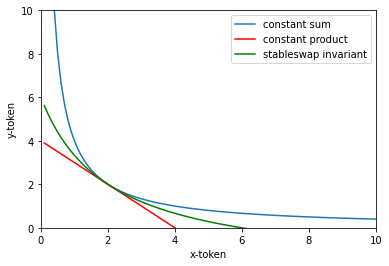
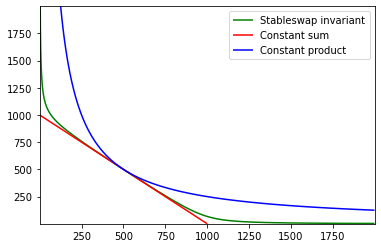
Implement feedback of @tbDeveloper
-Updated the stableswap graphic
-Changed cfmm graphic
-Various other smaller changes
-to do: Arbitrage graphic

Changed region(s): [[0.0, 0.0, 1.0, 0.9879], [0.2887, 0.6492, 0.3176, 0.6774], [0.2598, 0.6774, 0.2887, 0.7056]]

diff --git a/slides/dex-protocols.tex b/slides/dex-protocols.tex
@@ -22,32 +22,37 @@
 
 
 %%%
-\begin{frame}{Exchange Overview}
-
+\begin{frame}{Overview}
 	\begin{figure}[h!]
 		\input{../assets/figures/overview_exchanges.tex}
 	\end{figure}
-	
-\only<2>{
-\textbf{Problems of CEXs:}
-\begin{small}
-\begin{itemize}
-	\item A users' funds must be deposited with the exchange
-	\item Access is forfeited and trust towards the exchange operator needed.
-	\item Singe point of attack $\rightarrow$ Constant threat of becoming target of malicious third parties.
-\end{itemize}
-\end{small}
-}	
+\end{frame}	
+%%%
 
-\only<3>{
-\textbf{Advantages of DEXs:}
-\begin{small}
-\begin{itemize}
-	\item User remains in exclusive control of assets until trade is executed.
-	\item Atomic trade execution = One indivisible transaction.
-	\item No counterparty risk.
-\end{itemize}
-\end{small}
+
+%%	
+\begin{frame}{Why DEXs?}
+
+	\textbf{Problems of CEXs:}
+		\begin{small}
+		\begin{itemize}
+			\item A users' funds must be deposited with the exchange
+			\item Access is forfeited and trust towards the exchange operator needed.
+			\item Singe point of attack $\rightarrow$ Constant threat of becoming target of malicious third parties.
+		\end{itemize}
+		\end{small}	
+
+\vspace{1.5em}
+
+\uncover<2>{
+	\textbf{Advantages of DEXs:}
+		\begin{small}
+		\begin{itemize}
+			\item User remains in exclusive control of assets until trade is executed.
+			\item Atomic trade execution = One indivisible transaction.
+			\item No counterparty risk.
+		\end{itemize}
+		\end{small}
 }
 \end{frame}
 %%%
@@ -72,16 +77,23 @@
 	\begin{itemize}
 		\item The price is determined endogenously via a formula.
 		\item The trader pays a fee which is added to the liquidity pool. Since no new Pool tokens are minted, this has the effect of splitting the transaction fee proportionally between all Liquidity Providers.
-		%\item When the pool price differs from the market price (e.g on a centralized exchange), there is an arbitrage opportunity. %This keeps the price up to date (in line with Market Price).
 	\end{itemize}
 }
 
-\only<5>{
+\end{frame}
+%%%
+
+
+%%%
+\begin{frame}{Arbitrage}
+	\begin{figure}
+		\begin{tikzpicture}
+		
+		\end{tikzpicture}
+	\end{figure}
 	\begin{itemize}
-		\item When the pool price differs from the market price (e.g on a centralized exchange), there is an arbitrage opportunity. This should keep the price in line with the Market Price.
-	\end{itemize}
-}
-
+		\item When the pool price differs from the market price (e.g on a centralized exchange), there is an arbitrage opportunity. Therefore, the Pool Price should be the same as the Market Price.
+	\end{itemize}	
 \end{frame}
 %%%
 
@@ -118,6 +130,7 @@
 \end{frame}
 %%%
 
+
 %%%
 \begin{frame}{AMM Functions}
 	\begin{itemize}
@@ -127,6 +140,7 @@
 	\end{itemize}
 \end{frame}
 %%%
+
 
 %%%
 \begin{frame}{Swap (without fees)}
@@ -169,52 +183,53 @@
 
 %%%
 \begin{frame}{Divergence Loss}
-		\textbf{General assumptions:} No fees, no other LPs \\ 
-		
+
+	\textbf{General assumptions:} No fees, no other LPs \\ 
 		\begin{enumerate}
 			\item We provide 10 units both of ETH and CIF, which are equal in value ($1 \tfrac{CIF}{ETH}$).
 			\begin{align*}
-			10 \cdot 10 = 100	
+				10 \cdot 10 = 100	
 			\end{align*}
-			\item The price for ETH on the open market doubles, the price of CIF stays the same ($2 \tfrac{CIF}{ETH}$). This opens up an arbitrage opportunity in the pool. After arbitrage, prices should correspond  to the market prices and with the following pool balances.
+			\item The price for ETH on the open market doubles, the price of CIF stays the same ($2 \tfrac{CIF}{ETH}$). After arbitrage, the pool balances should adjust to:
 			\begin{align*}
-			y &= \sqrt{k/P_{y}}	 = \sqrt{100/2} = 7.0716 \\
-			x &= k / y = 100 / 7.0716 = 14.141
+				y &= \sqrt{k/P_{y}}	 = \sqrt{100/2} = 7.0716 \\
+				x &= k / y = 100 / 7.0716 = 14.141
 			\end{align*}
-		\end{enumerate}
-		
+		\end{enumerate}	
 \end{frame}
 %%%
 
+
 %%%
 \begin{frame}{Divergence Loss}
+
 	\begin{enumerate}
 	\setcounter{enumi}{2}
-		\item The total pool value in CIF is: 
+		\item The total pool value, expressed in units of Token A is: 
 			\begin{align*}
-				7.0716 \cdot 2 \tfrac{CIF}{ETH} + 14.141 \cdot 1 \tfrac{CIF}{ETH} = 28.284 \tfrac{CIF}{ETH}
+				7.0716 \cdot 2 \tfrac{CIF}{ETH} + 14.141 \cdot 1 \tfrac{CIF}{ETH} = 28.284 CIF
 			\end{align*}
 		\item If we simply held our initial allocation, we would have:
 			\begin{align*}
-			10 \cdot 2 \tfrac{CIF}{ETH} + 10 \cdot 1 \tfrac{CIF}{ETH} = 	30 \tfrac{CIF}{ETH}
+			10 \cdot 2 \tfrac{CIF}{ETH} + 10 \cdot 1 \tfrac{CIF}{ETH} = 	30 CIF
 			\end{align*}
 		\item The difference between the Pool Value and the Hold Value is called divergence loss.
 		\begin{align*}
 			DL = \tfrac{Pool_V}{Hold_V} -1 = \tfrac{28.284}{30} - 1 = -5.72 \%
 			\end{align*}
 	\end{enumerate}	
-\begin{keytakeaway}{Note}
-	In order to be profitable, a LP must collect more fees than the Divergence Loss. DL is only realized by selling the LP position (burning LP Tokens). There is no DL if the price ratio between the two pool assets stays equal.
-\end{keytakeaway}
-
+	
+	\begin{keytakeaway}{Note}
+		In order to be profitable, a LP must collect more fees than the Divergence Loss. DL is only realized by selling the LP position (burning LP Tokens). There is no DL if the price ratio between the two pool assets stays equal.
+	\end{keytakeaway}
+	
 \end{frame}
 %%%
 
 
 %%%
 \begin{frame}{Swap one x-token with 0.03\% fee}
-
-%\textbf{Swap one x-token with a fee of 0.3 \%} \\ \vspace{1.5em}
+	%\textbf{Swap one x-token with a fee of 0.3 \%} \\ \vspace{1.5em}
 
 	\begin{minipage}{0.5\textwidth}
 		\begin{figure}[h!]
@@ -229,7 +244,7 @@
 		\begin{scriptsize}
 			\begin{align*}
 			\only<1>{
-				\Delta (y) &= \dfrac{k}{x+ (1-\tau) \Delta (x)} - y \\
+				\Delta y &= \dfrac{k}{x+ (1-\tau) \Delta x} - y \\
 			}
 			\only<2>{
 			 	\Delta y &= \tfrac{100}{10+ (1-0.003) \cdot 10} - 10 = -0.9066 \\
@@ -241,9 +256,9 @@
 		 		k' &= 11 \cdot 9.0934 = 100.0274 \\
 			}
 			\only<4>{
-				PR &= \tfrac{y}{x} = 10/10 = 1 \\
-				Swap Price &= \tfrac{\Delta y}{\Delta x} = \tfrac{0.9066}{1} = 0.9066\\
-				PR' &= \tfrac{y'}{x'} = \tfrac{9.0934}{11} =  0.8267 \\
+				P &= \tfrac{y}{x} = \tfrac{10}{10} = 1 \\
+				P_{swap} &= \tfrac{\Delta y}{\Delta x} = \tfrac{0.9066}{1} = 0.9066\\
+				P' &= \tfrac{y'}{x'} = \tfrac{9.0934}{11} =  0.8267 \\
 			}
 			\only<5>{
 				S &= \tfrac{Swap Price}{PR} - 1 = \tfrac{0.9066}{1} - 1 = -0.0934 \\
@@ -273,19 +288,19 @@
 		\begin{scriptsize}
 			\begin{align*}
 			\only<1>{
-				PR &= \tfrac{y}{x} = 100/100 = 1 \\
-				P_{eff} &= \tfrac{\Delta (y)}{\Delta (x)} = \tfrac{0.9872}{1} = 0.9872\\
+				PR &= \tfrac{y}{x} = \tfrac{100}{100} = 1 \\
+				P_{swap} &= \tfrac{\Delta y}{\Delta x} = \tfrac{0.9872}{1} = 0.9872\\
 				PR' &= \tfrac{y'}{x'} = \tfrac{99.0128}{101} =  0.9803 \\
 			}
 			\only<2>{
-				S &= \tfrac{Swap Price}{PR} - 1 = \tfrac{0.9872}{1} - 1 = -0.0128 \\
+				S &= \tfrac{P_{swap}}{P} - 1 = \tfrac{0.9872}{1} - 1 = -0.0128 \\
 			}
 			\end{align*}
 		\end{scriptsize}
 	\end{minipage}
 	
 	\uncover<2>{
-	\begin{keytakeaway}{Slippage}
+	\begin{keytakeaway}{Impact of Pool/Trade Ratio}
 	In our first example, the trader got 0.9066 y-Tokens, in the second 0.9872. When the trade size is smaller compared to the total pool liquidity, slippage is also reduced. In our example from $\approx$ 10\% to $\approx$ 1.3\%.
 	\end{keytakeaway}
 
@@ -297,29 +312,10 @@
 
 
 %%%
-\begin{frame}{Different Bonding Curves}
-\begin{figure*}
-	\includegraphics[scale=0.6]{../assets/images/bonding-curves.png}
-\end{figure*}
-
-%\begin{tikzpicture}[]
-%    
-%    \draw[samples = 200, color=blue, scale=1, xshift = 0cm, yshift = 0cm, domain=0.9:4.55, smooth, variable=\x] plot ({\x}, {4/\x}) node[right,color=blue] {\scriptsize{Uniswap}} ;
-%   	\draw[samples = 200, color=red, scale=1, xshift = 0cm, yshift = 0cm, domain=0.9:4.55, smooth, variable=\x] plot ({\x}, {4-\x})
-%    	node[right,color=red] {\scriptsize{linear function}} ;    
-%    
-%  	\draw[->] (0,0)--(5,0) node[below,midway]{} node[right] {$x$-tokens} ;
-%    \draw[->] (0,0)--(0,5) node[above,midway,rotate=90]{} node[above] {$y$-tokens};  
-%  
-%    \draw[dotted, thick] (2,2)--(0,2) node[left]{\scriptsize $y$};
-%
-%    \draw[dotted, thick] (2,2)--(2,0) node[below, yshift = -0.08cm]{\scriptsize $x$};
-%  
-%	\draw[fill=black] (2,2) circle(2pt);
-%
-%%% https://miguelmota.com/blog/understanding-stableswap-curve/
-%
-%\end{tikzpicture}
+\begin{frame}{Other Bonding Curves}
+	\begin{figure}
+		\includegraphics[scale=0.6]{../assets/images/bonding-curves.png}
+	\end{figure}
 \end{frame}
 %%%
 
@@ -350,6 +346,22 @@
 %%%
 \begin{frame}{Concept of Aggregators}
 
+\begin{figure}[t]
+	\centering	
+	\resizebox{0.8\textwidth}{!}{
+	\begin{tikzpicture}[scale=1.0, every node/.style={scale=1.0}]
+			\input{../assets/figures/defi_stack.tex}
+	\end{tikzpicture}}
+	\caption{The DeFi Stack \cite{FS:21}}
+\end{figure}
+\vspace{-1em}
+\begin{itemize}
+	\item DEX Aggregators source liquidity from different DEXs
+	\item They allow a user to compare different swap prices and to choose on which DEX their trade is performed.
+\end{itemize}
+
+
+%DEX aggregators source liquidity from different DEXs and thus offer users better token swap rates than they could get on any single DEX. DEX aggregators have the ability to optimize slippage, swap fees and token prices which, when done right, offer a better rate for users.
 \end{frame}
 %%%
 

diff --git a/assets/figures/cfmm.tex b/assets/figures/cfmm.tex
@@ -13,13 +13,12 @@
 }	
 
 	% Unbalanced Pool
-\uncover<4,5>{
+\uncover<4>{
 	\draw [fill=highlight] (-1,-1.5) rectangle (-0,0);
 	\draw [fill=strongmint] (0,-1.5) rectangle (1,0.5);
-}	
-\uncover<4>{
 	\draw [dashed] (-1,0.25) -- (1,0.25);
-}
+}	
+
 	% Token labels
 \uncover<2->{
 \node at (-0.5,-0.7) {\scriptsize{CIF}};
@@ -28,7 +27,7 @@
 
 \uncover<4->{
 % \node at (-4.5, 0.5) {\scriptsize{Pool Token}};
- \node at (-4.5, 0.5) {\includegraphics[scale = 0.3]{../assets/images/coin}};
+ \node at (-4.5, 0.5) {\includegraphics[scale = 0.05]{../assets/images/pie-chart}};
 }
 	
 	%% LPs, Trader
